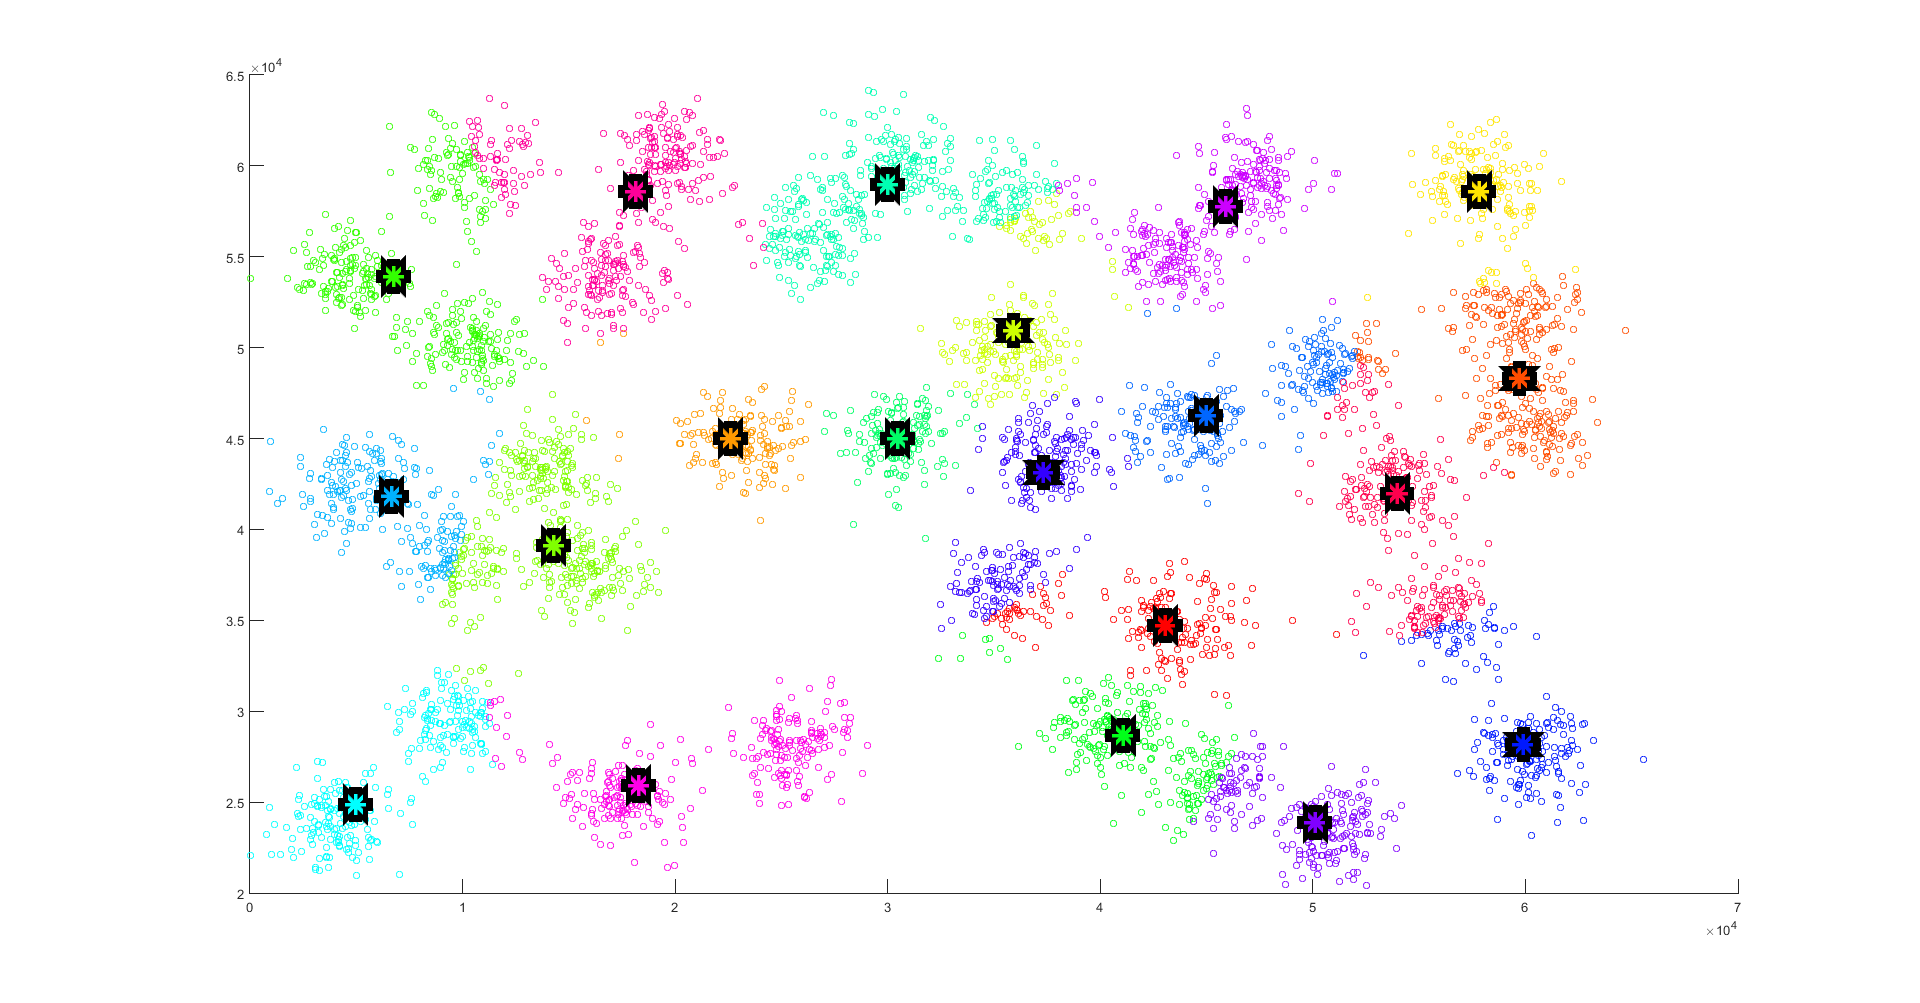
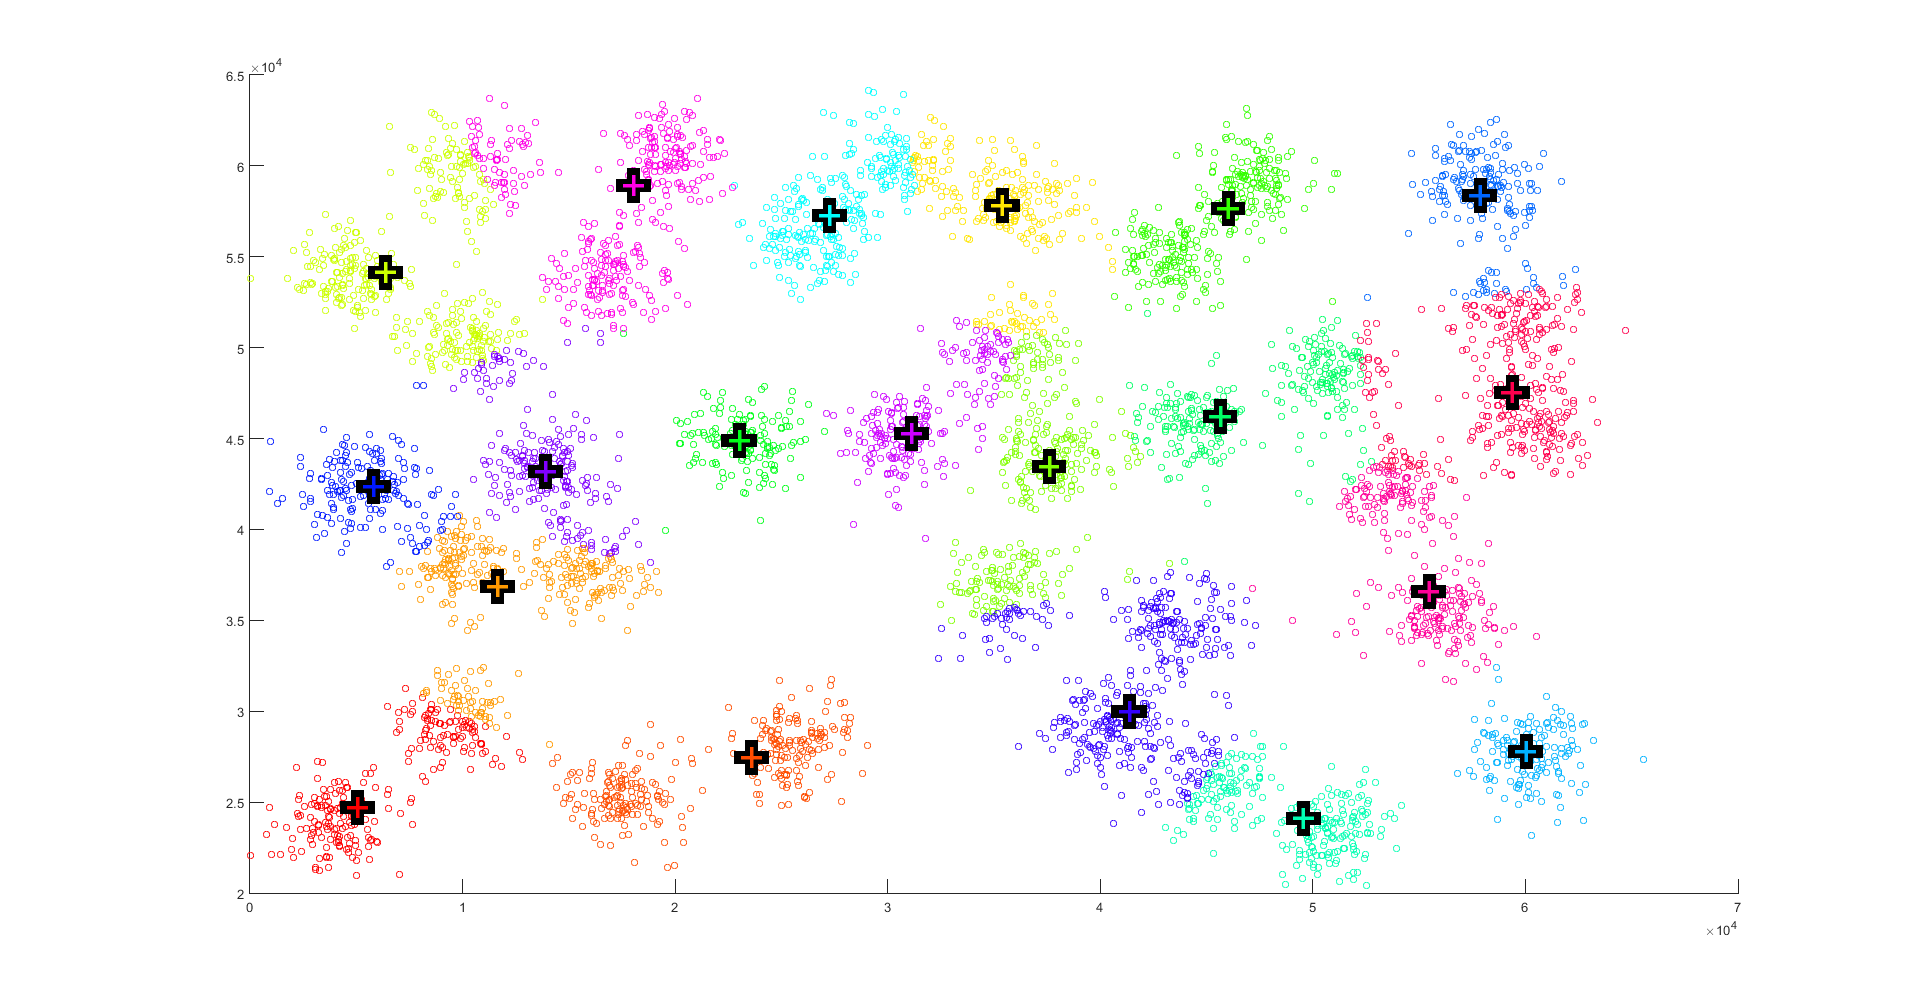
++MATLAB FIS script

diff --git a/MATLAB/fis.m b/MATLAB/fis.m
@@ -2,8 +2,8 @@
 clusters = 20;
 
 % uncomment file you want to load
-fcmdata = load('a2.txt');
-%fcmdata = load('yeast.txt');
+%fcmdata = load('a2.txt');
+fcmdata = load('yeast.txt');
 
 % find class for all points
 [centers, U] = fcm(fcmdata, clusters);
@@ -24,6 +24,6 @@ cmap = hsv(clusters);
 % for every class plot it and scatter every point that belongs to it
 for i = 1:clusters
     scatter(fcmdata(index(i).indexes, 1), fcmdata(index(i).indexes, 2),25,cmap(i,:));
-    plot(centers(i, 1), centers(i, 2), '*', 'MarkerSize', 25, 'LineWidth',10, 'Color', 'black');
-    plot(centers(i, 1), centers(i, 2), '*', 'MarkerSize', 15, 'LineWidth',3, 'Color',cmap(i,:));
+    plot(centers(i, 1), centers(i, 2), '+', 'MarkerSize', 25, 'LineWidth',10, 'Color', 'black');
+    plot(centers(i, 1), centers(i, 2), '+', 'MarkerSize', 15, 'LineWidth',3, 'Color',cmap(i,:));
 end
